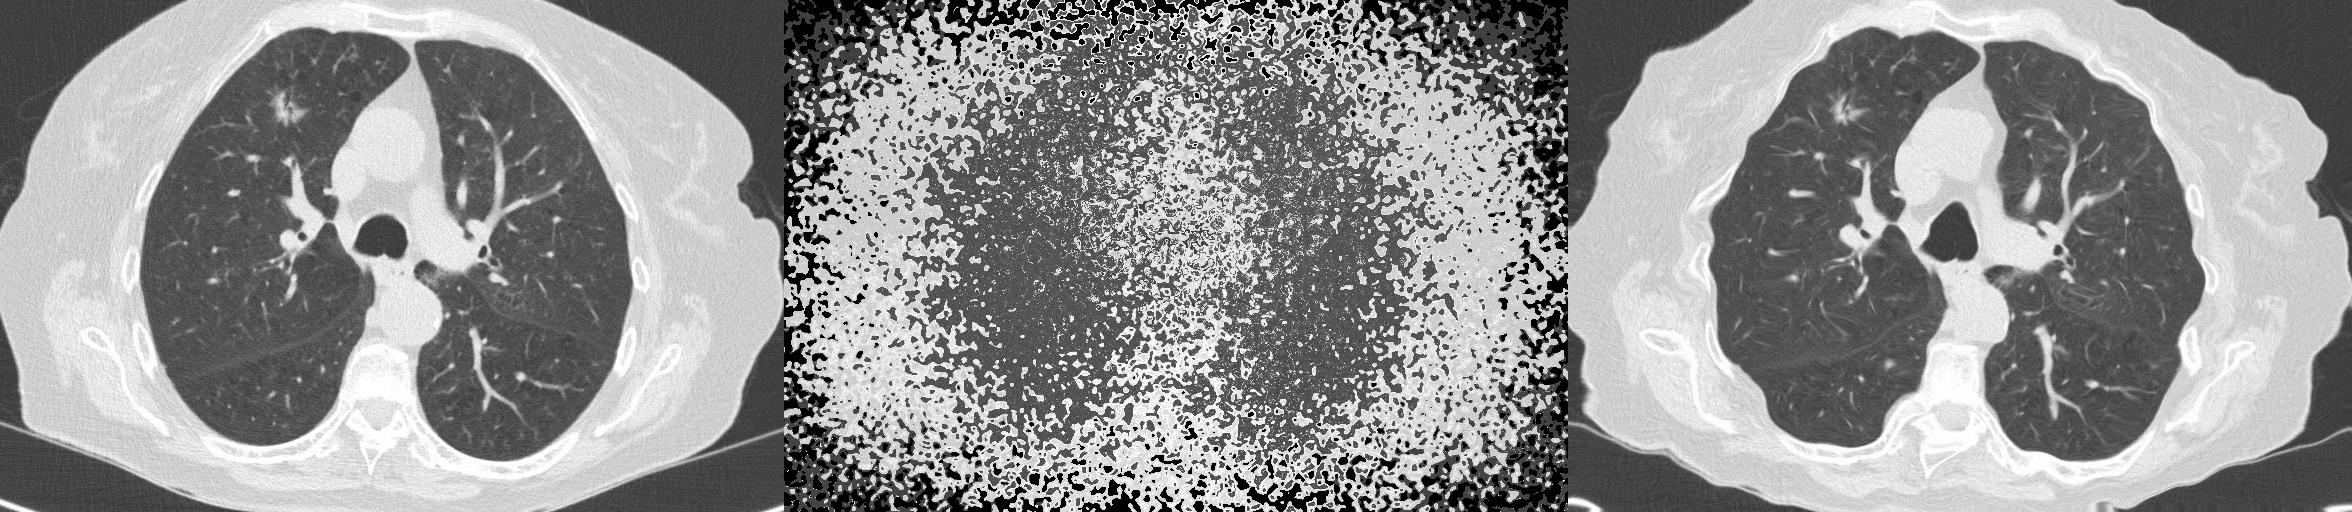
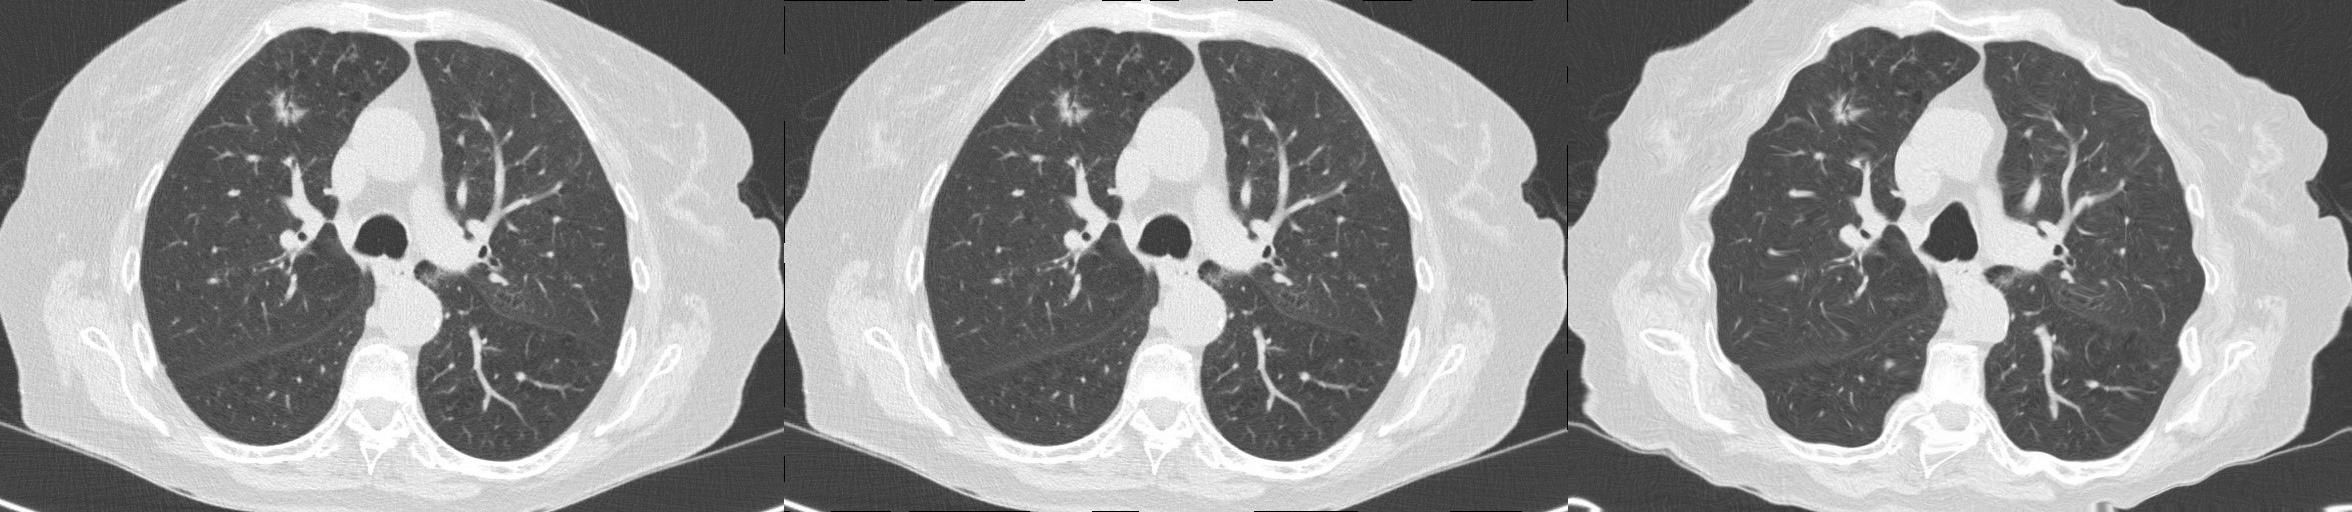
fixed elastic_transform

Changed region(s): [[0.3104, 0.0, 0.6828, 1.0]]

diff --git a/example.py b/example.py
@@ -18,7 +18,7 @@ image_pil = torchvision.transforms.ToPILImage()(image_transformed.squeeze())
 image_pil.save('lungs_transformed.jpg')
 
 image_transformed_numpy = elastic_transform_numpy.elastic_transform_numpy(image.numpy().squeeze(), 
-                                alpha=500, sigma=2, random_state=42)
+                                alpha=1, sigma=12, random_state=42)
 
 org = (image.numpy().squeeze()*255).astype('uint8')
 out = (image_transformed.detach().numpy().squeeze()*255).astype('uint8')

diff --git a/elastic_transform_numpy.py b/elastic_transform_numpy.py
@@ -25,9 +25,3 @@ def elastic_transform_numpy(image, alpha, sigma, random_state=None):
     indices = np.reshape(x+dx, (-1, 1)), np.reshape(y+dy, (-1, 1))
     
     return map_coordinates(image, indices, order=1).reshape(shape)
-
-class TestElasticTransform:
-    def test_equivalence(self):
-        image = np.random.rand(100,100,3)
-        print(elastic_transform_numpy(image, alpha=30, sigma=10, random_state=42))
-        assert(3==3)
